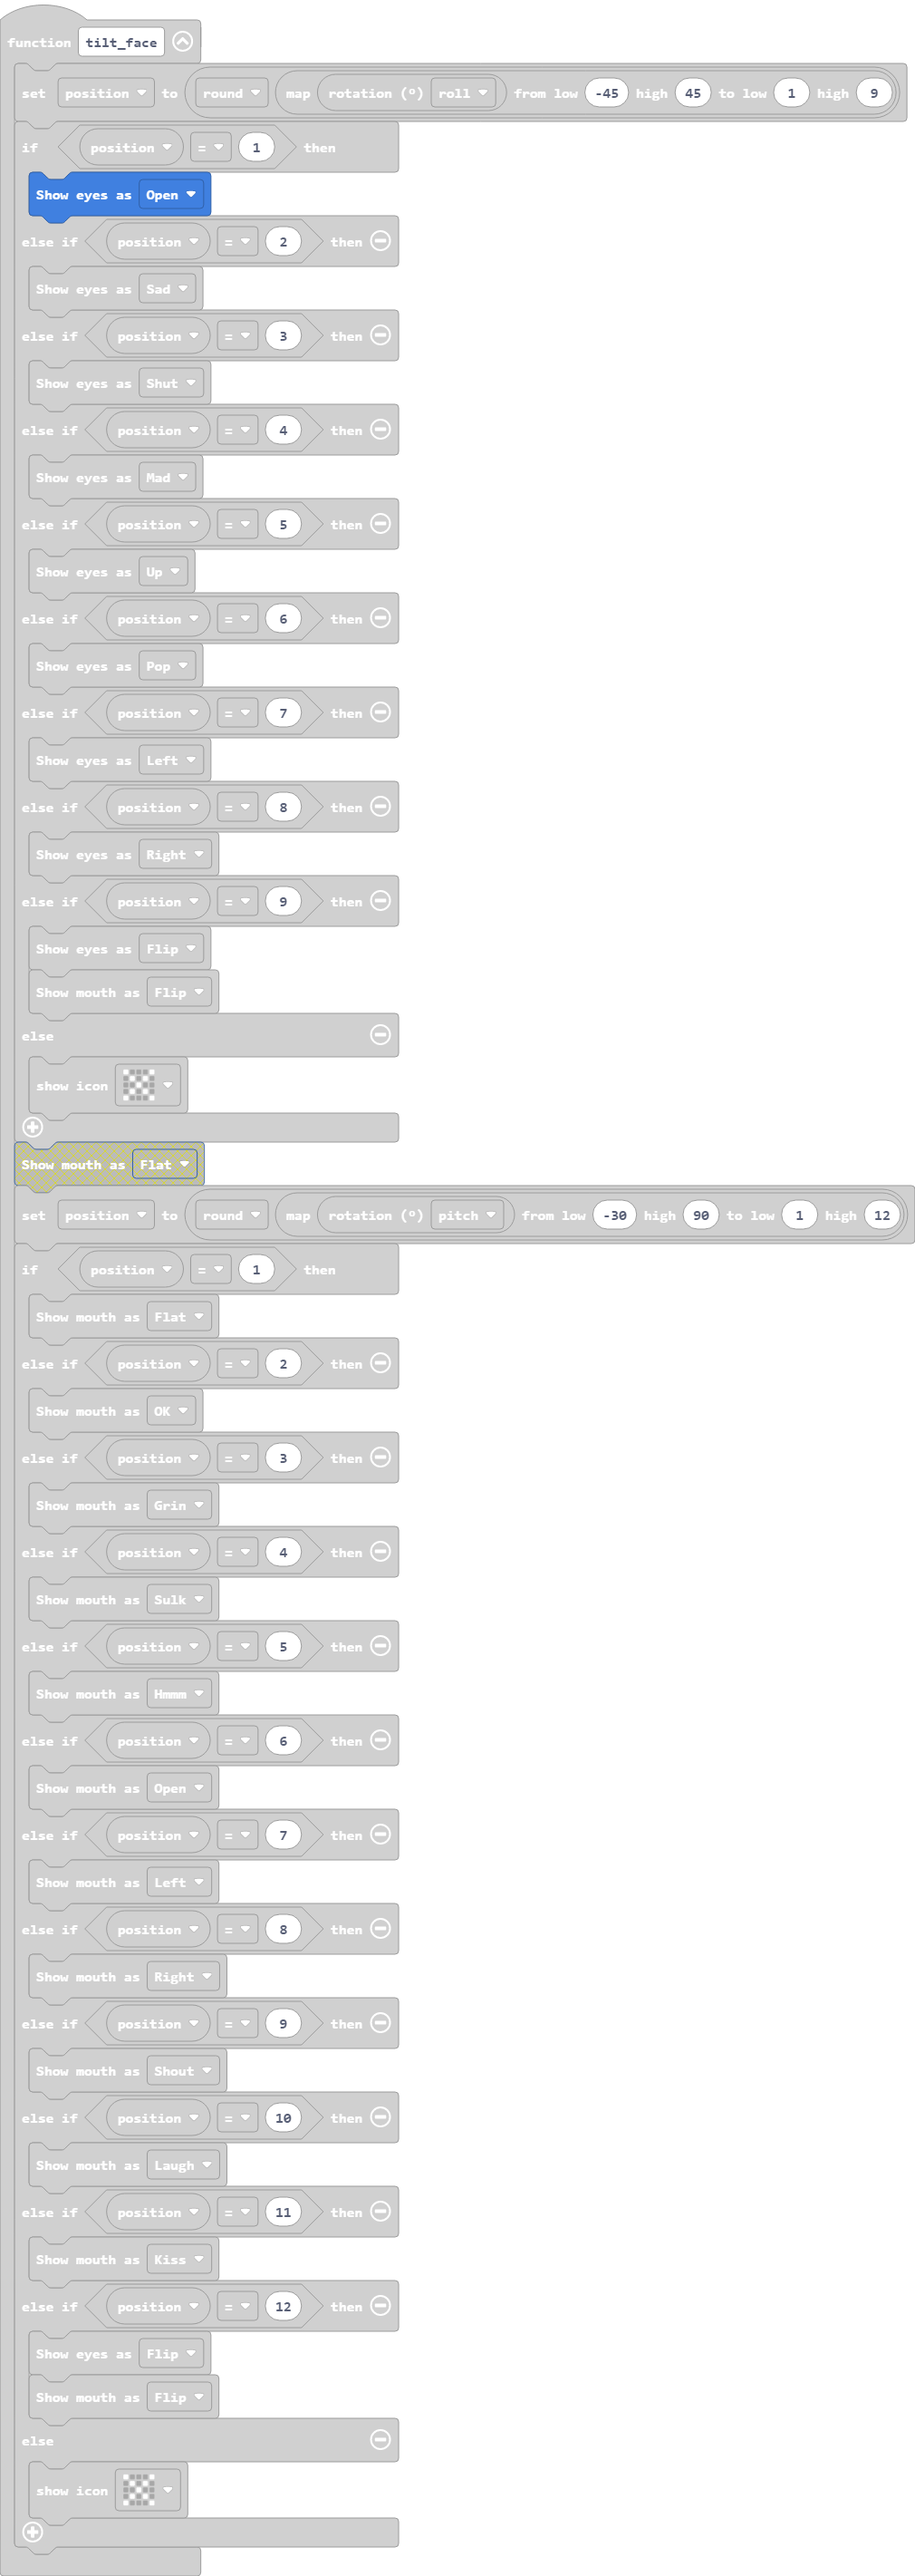
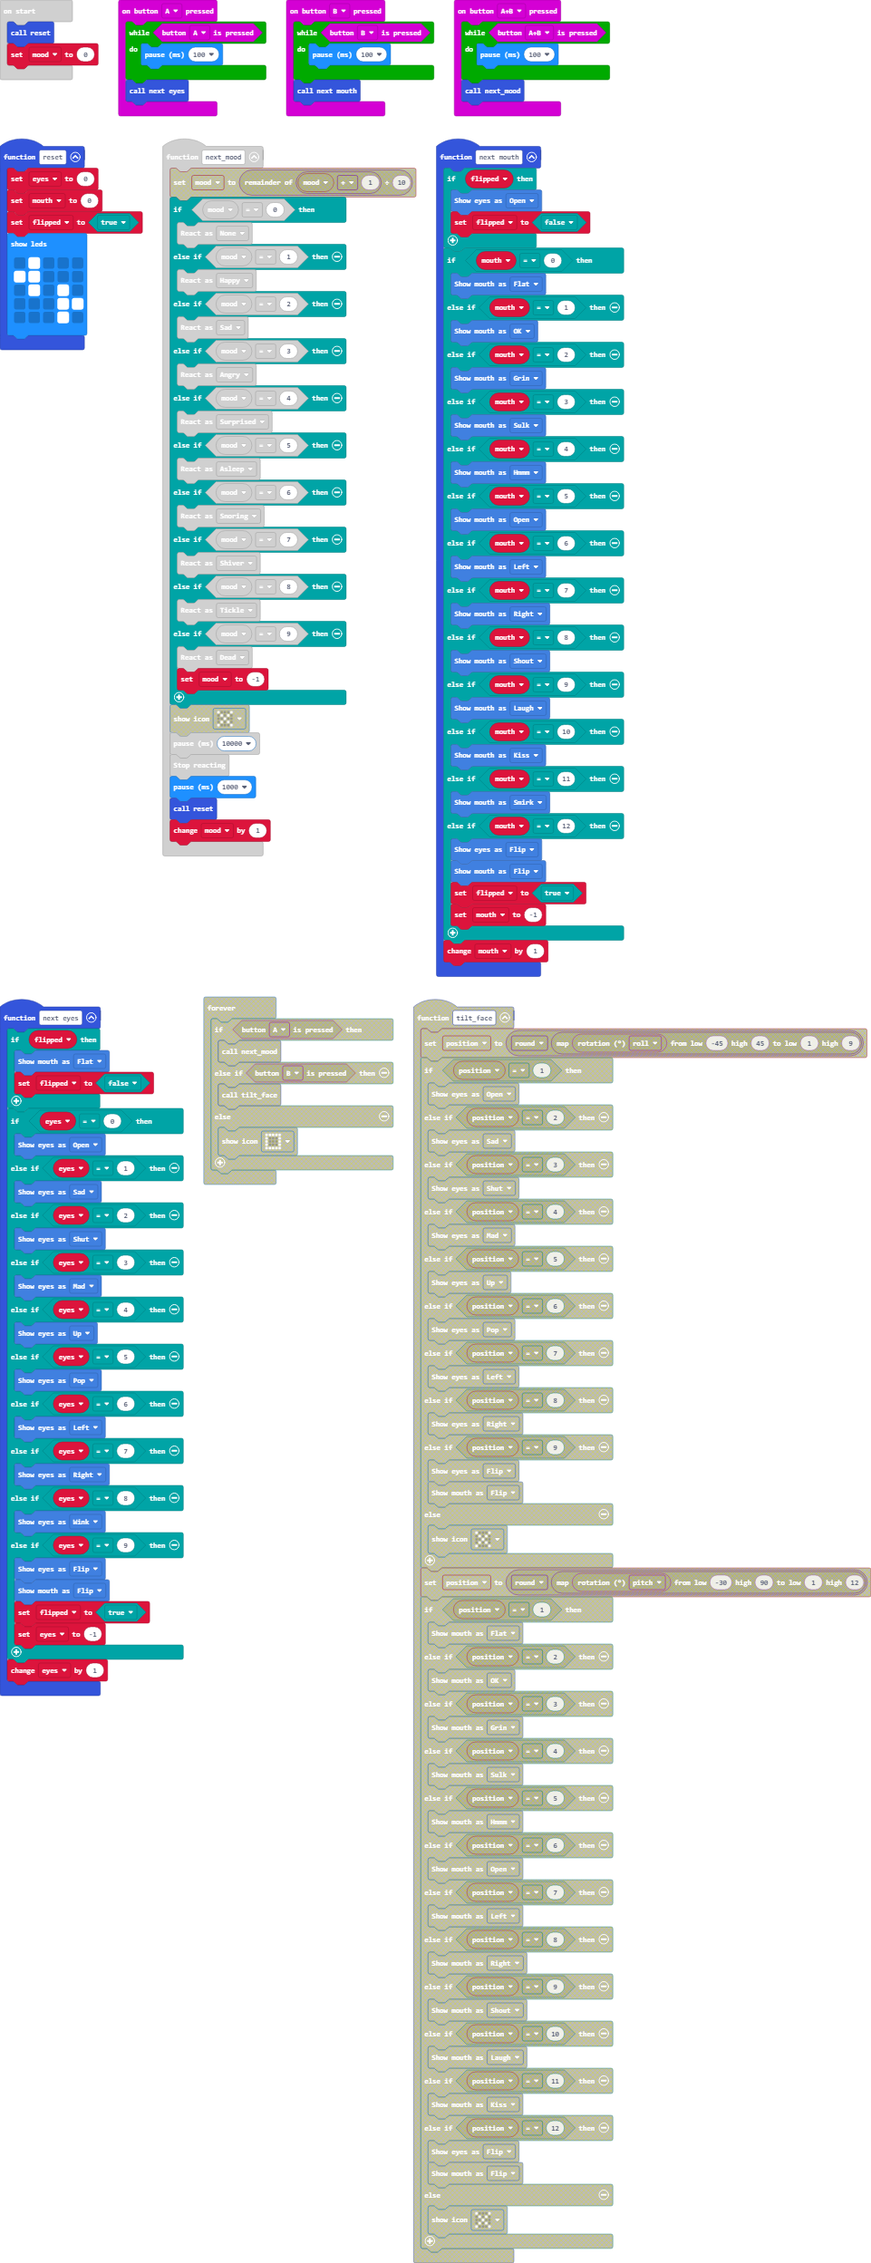
simplified UI. ButtonA for eyes; ButtonB for Mouth: A+B for moods

diff --git a/main.ts b/main.ts
@@ -1,59 +1,90 @@
-function tilt_face () {
-    position = Math.round(Math.map(input.rotation(Rotation.Roll), -45, 45, 1, 9))
-    if (position == 1) {
-        Emote.show_eyes(EYES.OPEN)
-    } else if (position == 2) {
-        Emote.show_eyes(EYES.SAD)
-    } else if (position == 3) {
-        Emote.show_eyes(EYES.SHUT)
-    } else if (position == 4) {
-        Emote.show_eyes(EYES.MAD)
-    } else if (position == 5) {
-        Emote.show_eyes(EYES.UP)
-    } else if (position == 6) {
-        Emote.show_eyes(EYES.POP)
-    } else if (position == 7) {
-        Emote.show_eyes(EYES.LEFT)
-    } else if (position == 8) {
-        Emote.show_eyes(EYES.RIGHT)
-    } else if (position == 9) {
-        Emote.show_eyes(EYES.FLIP)
-        Emote.show_mouth(MOUTHS.FLIP)
-    } else {
-        basic.showIcon(IconNames.No)
+input.onButtonPressed(Button.A, function () {
+    while (input.buttonIsPressed(Button.A)) {
+        basic.pause(100)
     }
-    position = Math.round(Math.map(input.rotation(Rotation.Pitch), -30, 90, 1, 12))
-    if (position == 1) {
+    next_eyes()
+})
+input.onButtonPressed(Button.AB, function () {
+    while (input.buttonIsPressed(Button.AB)) {
+        basic.pause(100)
+    }
+    next_mood()
+})
+input.onButtonPressed(Button.B, function () {
+    while (input.buttonIsPressed(Button.B)) {
+        basic.pause(100)
+    }
+    next_mouth()
+})
+function next_eyes () {
+    if (flipped) {
         Emote.show_mouth(MOUTHS.FLAT)
-    } else if (position == 2) {
-        Emote.show_mouth(MOUTHS.OK)
-    } else if (position == 3) {
-        Emote.show_mouth(MOUTHS.GRIN)
-    } else if (position == 4) {
-        Emote.show_mouth(MOUTHS.SULK)
-    } else if (position == 5) {
-        Emote.show_mouth(MOUTHS.HMMM)
-    } else if (position == 6) {
-        Emote.show_mouth(MOUTHS.OPEN)
-    } else if (position == 7) {
-        Emote.show_mouth(MOUTHS.LEFT)
-    } else if (position == 8) {
-        Emote.show_mouth(MOUTHS.RIGHT)
-    } else if (position == 9) {
-        Emote.show_mouth(MOUTHS.SHOUT)
-    } else if (position == 10) {
-        Emote.show_mouth(MOUTHS.LAUGH)
-    } else if (position == 11) {
-        Emote.show_mouth(MOUTHS.KISS)
-    } else if (position == 12) {
+        flipped = false
+    }
+    if (eyes == 0) {
+        Emote.show_eyes(EYES.OPEN)
+    } else if (eyes == 1) {
+        Emote.show_eyes(EYES.SAD)
+    } else if (eyes == 2) {
+        Emote.show_eyes(EYES.SHUT)
+    } else if (eyes == 3) {
+        Emote.show_eyes(EYES.MAD)
+    } else if (eyes == 4) {
+        Emote.show_eyes(EYES.UP)
+    } else if (eyes == 5) {
+        Emote.show_eyes(EYES.POP)
+    } else if (eyes == 6) {
+        Emote.show_eyes(EYES.LEFT)
+    } else if (eyes == 7) {
+        Emote.show_eyes(EYES.RIGHT)
+    } else if (eyes == 8) {
+        Emote.show_eyes(EYES.WINK)
+    } else if (eyes == 9) {
         Emote.show_eyes(EYES.FLIP)
         Emote.show_mouth(MOUTHS.FLIP)
-    } else {
-        basic.showIcon(IconNames.No)
+        flipped = true
+        eyes = -1
     }
+    eyes += 1
+}
+function next_mouth () {
+    if (flipped) {
+        Emote.show_eyes(EYES.OPEN)
+        flipped = false
+    }
+    if (mouth == 0) {
+        Emote.show_mouth(MOUTHS.FLAT)
+    } else if (mouth == 1) {
+        Emote.show_mouth(MOUTHS.OK)
+    } else if (mouth == 2) {
+        Emote.show_mouth(MOUTHS.GRIN)
+    } else if (mouth == 3) {
+        Emote.show_mouth(MOUTHS.SULK)
+    } else if (mouth == 4) {
+        Emote.show_mouth(MOUTHS.HMMM)
+    } else if (mouth == 5) {
+        Emote.show_mouth(MOUTHS.OPEN)
+    } else if (mouth == 6) {
+        Emote.show_mouth(MOUTHS.LEFT)
+    } else if (mouth == 7) {
+        Emote.show_mouth(MOUTHS.RIGHT)
+    } else if (mouth == 8) {
+        Emote.show_mouth(MOUTHS.SHOUT)
+    } else if (mouth == 9) {
+        Emote.show_mouth(MOUTHS.LAUGH)
+    } else if (mouth == 10) {
+        Emote.show_mouth(MOUTHS.KISS)
+    } else if (mouth == 11) {
+        Emote.show_mouth(MOUTHS.SMIRK)
+    } else if (mouth == 12) {
+        Emote.show_eyes(EYES.FLIP)
+        Emote.show_mouth(MOUTHS.FLIP)
+        flipped = true
+        mouth = -1
+    }
+    mouth += 1
 }
 function next_mood () {
-    mood = (mood + 1) % 10
     if (mood == 0) {
         Emote.new_mood(MOODS.NONE)
     } else if (mood == 1) {
@@ -74,21 +105,29 @@ function next_mood () {
         Emote.new_mood(MOODS.TICKLE)
     } else if (mood == 9) {
         Emote.new_mood(MOODS.DEAD)
-    } else {
-        basic.showIcon(IconNames.No)
+        mood = -1
     }
-    basic.pause(12000)
+    basic.pause(10000)
     Emote.cease()
+    basic.pause(1000)
+    reset()
+    mood += 1
 }
-let position = 0
+function reset () {
+    eyes = 0
+    mouth = 0
+    flipped = true
+    basic.showLeds(`
+        . # . . .
+        # # . . .
+        . # . # .
+        . . . # #
+        . . . # .
+        `)
+}
+let mouth = 0
+let eyes = 0
+let flipped = false
 let mood = 0
-mood = -1
-basic.forever(function () {
-    if (input.buttonIsPressed(Button.A)) {
-        next_mood()
-    } else if (input.buttonIsPressed(Button.B)) {
-        tilt_face()
-    } else {
-        basic.showIcon(IconNames.Square)
-    }
-})
+reset()
+mood = 0
